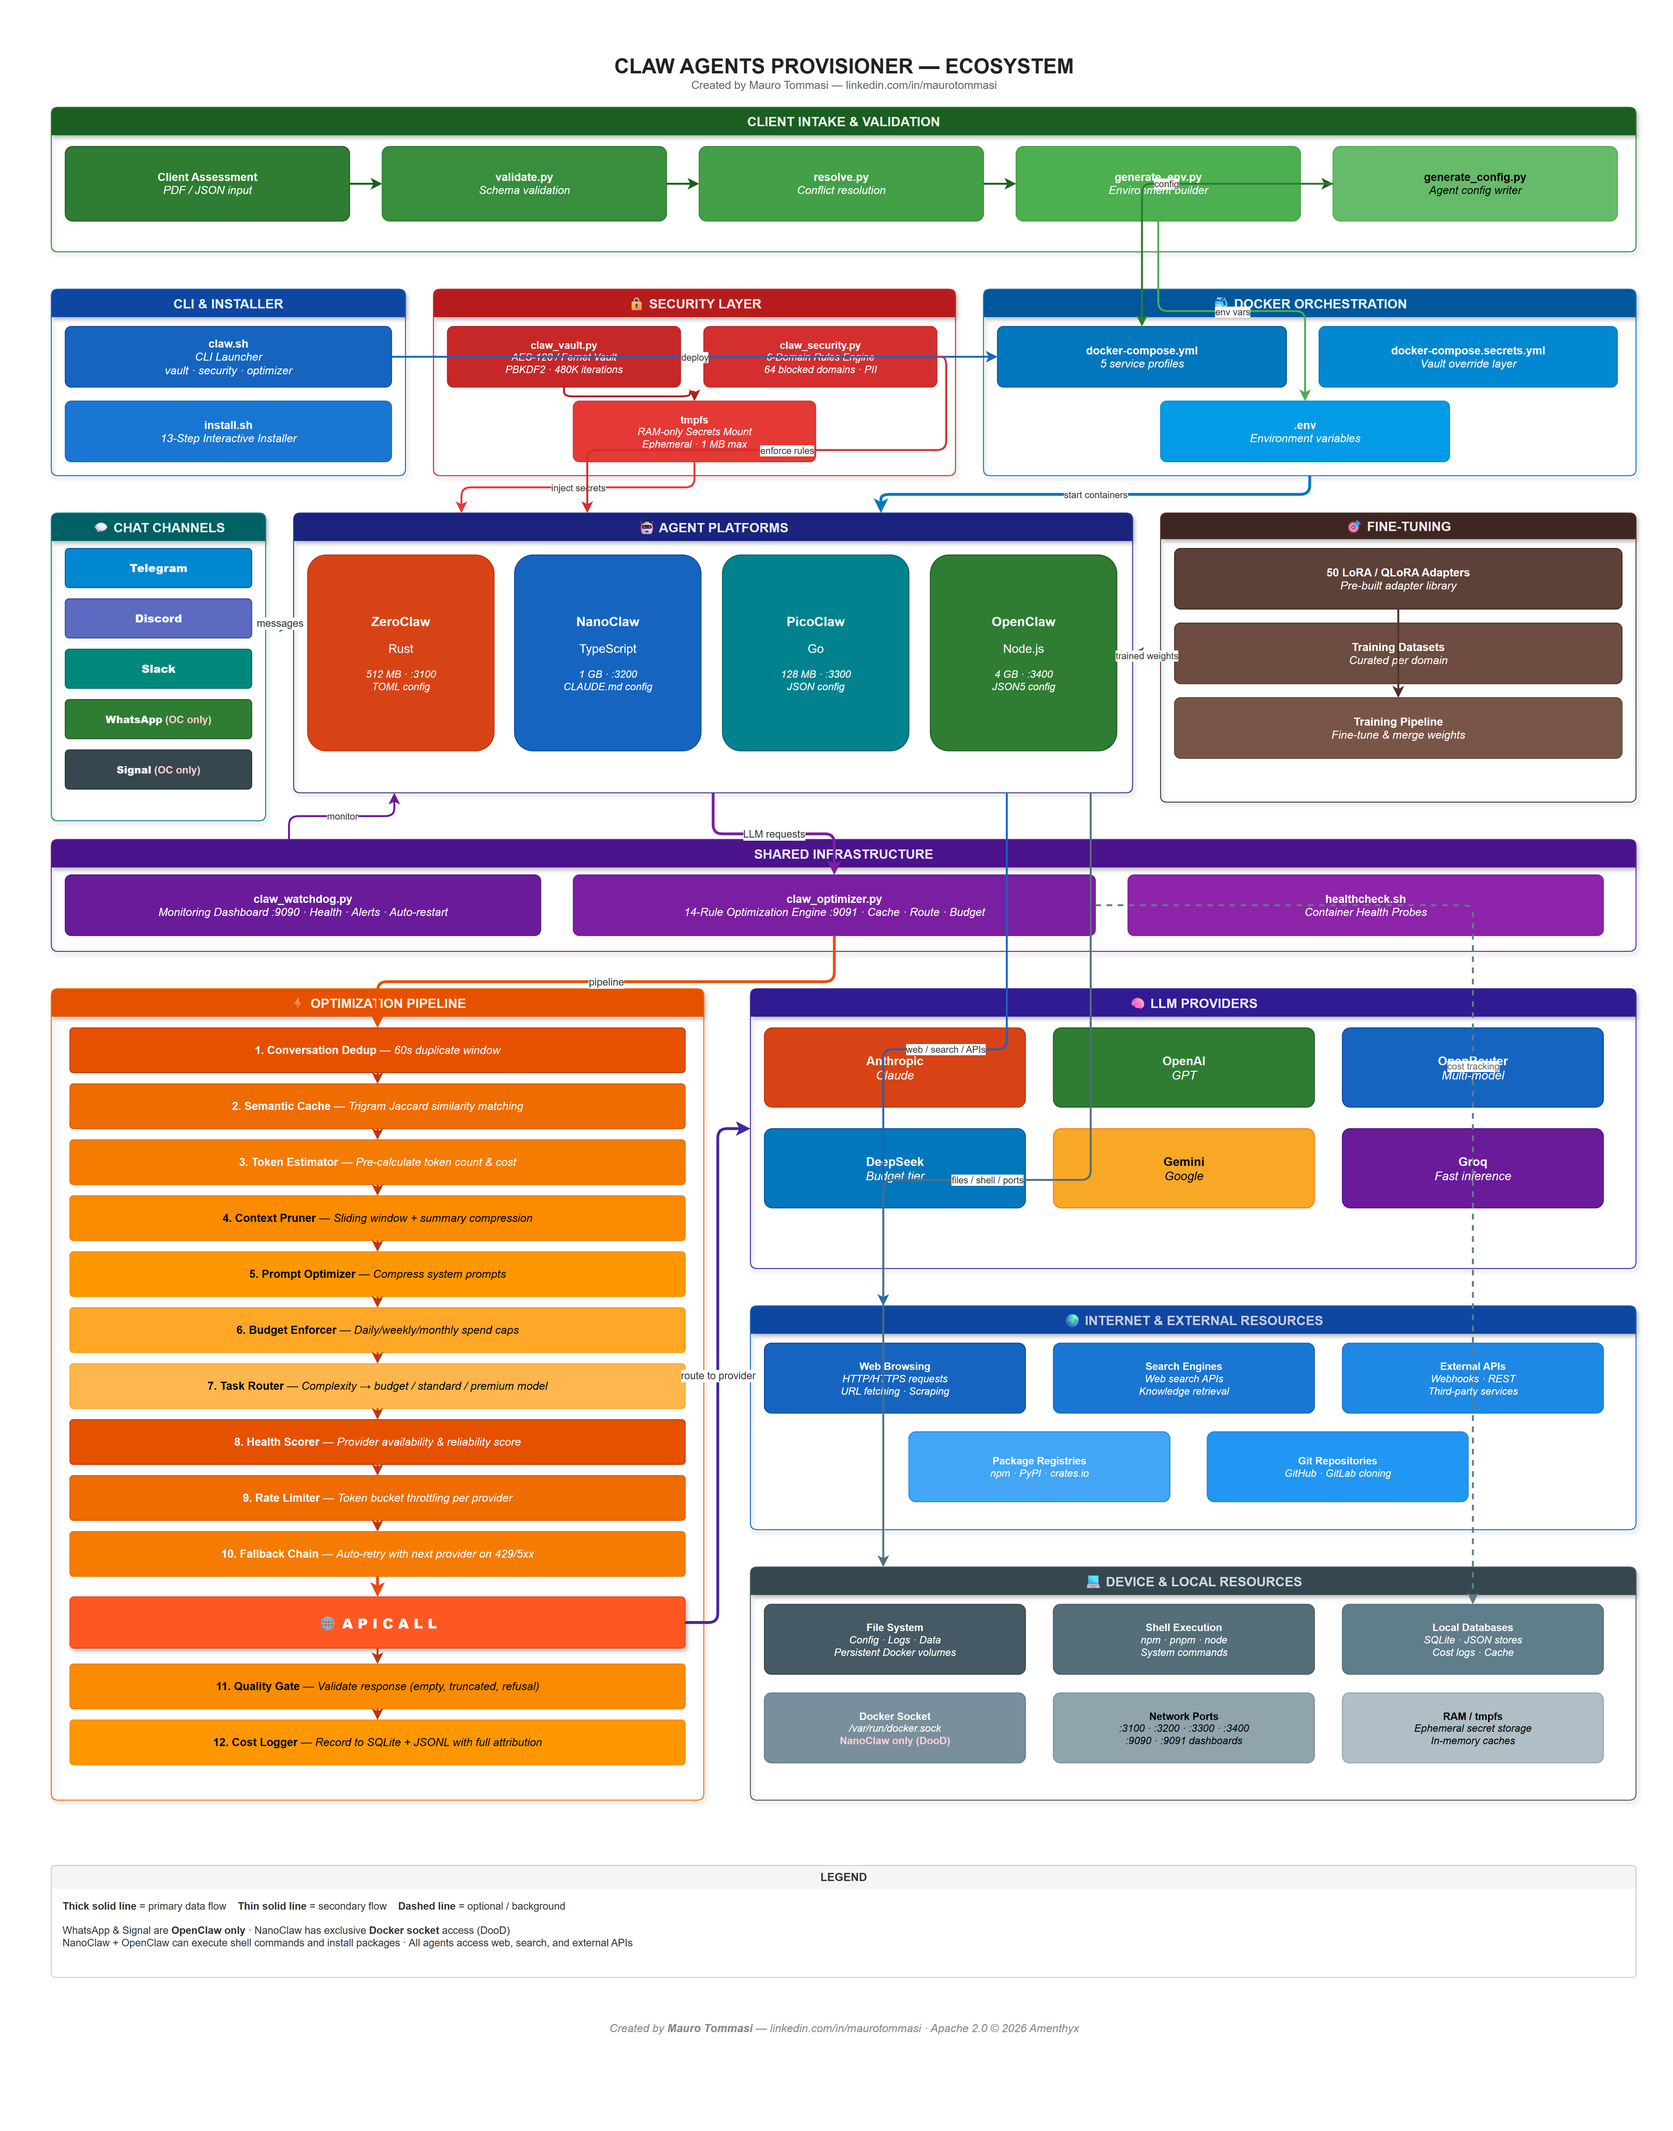
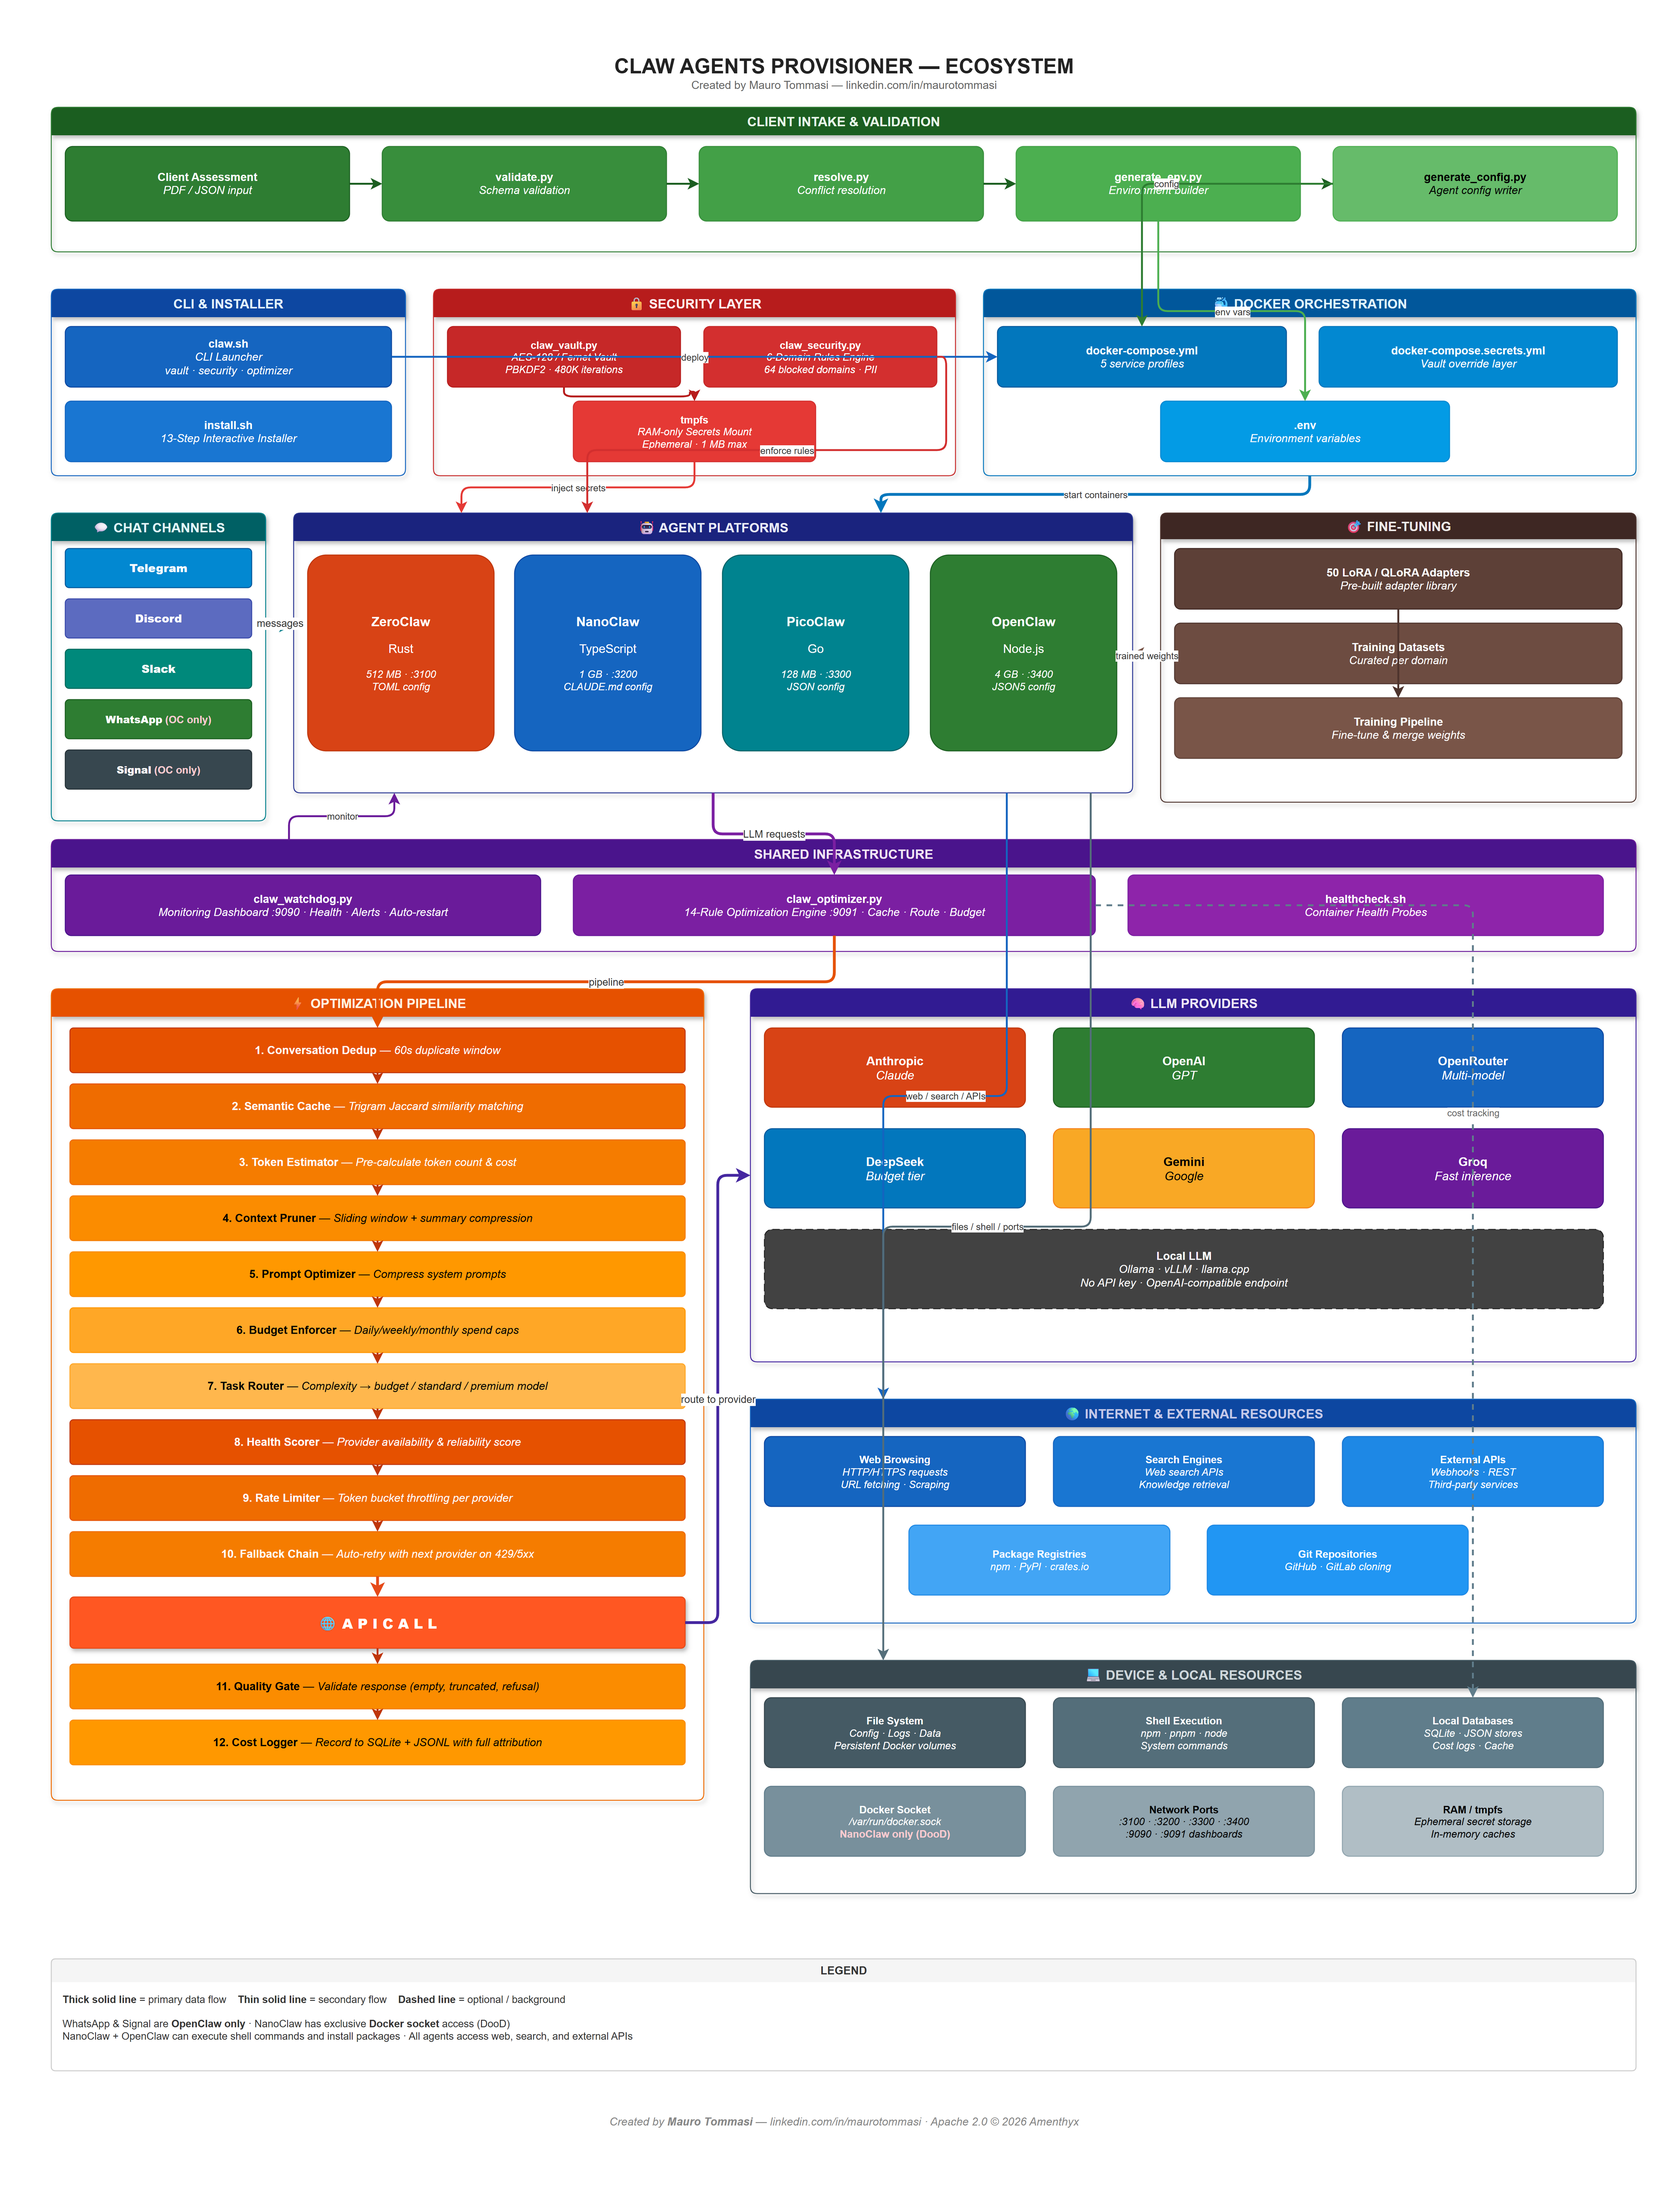
feat: add local LLM support (Ollama, vLLM, llama.cpp)
Support self-hosted models via OpenAI-compatible endpoints without
API keys. Changes across the full stack:

- .env.template: CLAW_LOCAL_LLM_ENDPOINT var, provider=local option
- install.sh: Local LLM wizard with endpoint URL + model selection
  (llama3.2, mistral, codellama, deepseek-r1, qwen2.5, phi3, custom)
- optimization.json: local tier with $0 costs, 999 RPM rate limit
- claw_optimizer.py: local provider detection in _provider_from_model
- resolve.py: local LLM selection when endpoint is configured
- generate_env.py: local provider handling (no API key placeholder)
- generate_config.py: local mapped to openai-compatible
- ecosystem-diagram.drawio: Local LLM node in LLM Providers section
- README.md: mention CLAW_LOCAL_LLM_ENDPOINT in env reference

diff --git a/assessment/generate_env.py b/assessment/generate_env.py
@@ -114,6 +114,7 @@ def generate_env(
         "openai_key": "sk-YOUR_KEY_HERE" if result.llm_provider == "openai" else "",
         "openrouter_key": "sk-or-YOUR_KEY_HERE" if result.llm_provider == "openrouter" else "",
         "deepseek_key": "sk-YOUR_KEY_HERE" if result.llm_provider == "deepseek" else "",
+        "local_llm_endpoint": assessment.get("infrastructure", {}).get("local_llm_endpoint", "") if result.llm_provider == "local" else "",
     }
 
     # Determine channel tokens to highlight
@@ -133,6 +134,9 @@ def generate_env(
 
     # Prompt enrichment is for API-only models
     prompt_enrichment = "true" if result.llm_provider in ("anthropic", "openai", "openrouter") else "false"
+
+    # Local LLM uses no API key — only needs endpoint URL
+    is_local = result.llm_provider == "local"
 
     # NanoClaw channel mapping
     nanoclaw_channel = primary_channel if primary_channel in (

diff --git a/assessment/resolve.py b/assessment/resolve.py
@@ -204,6 +204,12 @@ def select_llm_model(
     complexity = assessment.get("use_cases", {}).get("complexity_level", "moderate")
     max_context = assessment.get("performance_scale", {}).get("max_context_length", "medium")
 
+    # Local LLM — zero cost, no API key required
+    local_endpoint = assessment.get("infrastructure", {}).get("local_llm_endpoint", "")
+    if local_endpoint:
+        local_model = assessment.get("infrastructure", {}).get("local_llm_model", "llama3.2")
+        return "local", local_model
+
     # Budget-first selection
     if monthly_budget == 0:
         return "deepseek", "deepseek-chat"

diff --git a/shared/claw_optimizer.py b/shared/claw_optimizer.py
@@ -184,6 +184,8 @@ def _provider_from_model(model: str) -> str:
         return "deepseek"
     if "gemini" in m:
         return "gemini"
+    if any(name in m for name in ("llama", "mistral", "codellama", "phi", "qwen", "deepseek-r1")):
+        return "local"
     return "unknown"
 
 

diff --git a/assessment/generate_config.py b/assessment/generate_config.py
@@ -37,6 +37,7 @@ def generate_zeroclaw_config(
         "openai": "openai",
         "deepseek": "openai-compatible",
         "openrouter": "openrouter",
+        "local": "openai-compatible",
     }
 
     model_provider = provider_map.get(result.llm_provider, "anthropic")

diff --git a/README.md b/README.md
@@ -1062,6 +1062,7 @@ cp .env.template .env
 
 Key sections in `.env`:
 - **LLM Provider Keys**: `ANTHROPIC_API_KEY`, `OPENAI_API_KEY`, `DEEPSEEK_API_KEY`
+- **Local LLM Endpoint**: `CLAW_LOCAL_LLM_ENDPOINT` — for Ollama, vLLM, llama.cpp (no API key required)
 - **Channel Tokens**: `WHATSAPP_TOKEN`, `TELEGRAM_BOT_TOKEN`, `SLACK_BOT_TOKEN`
 - **Agent Selection**: `CLAW_PLATFORM`, `CLAW_MODEL`
 - **Fine-Tuning**: `FINETUNE_METHOD`, `FINETUNE_BASE_MODEL`, `FINETUNE_LORA_RANK`
